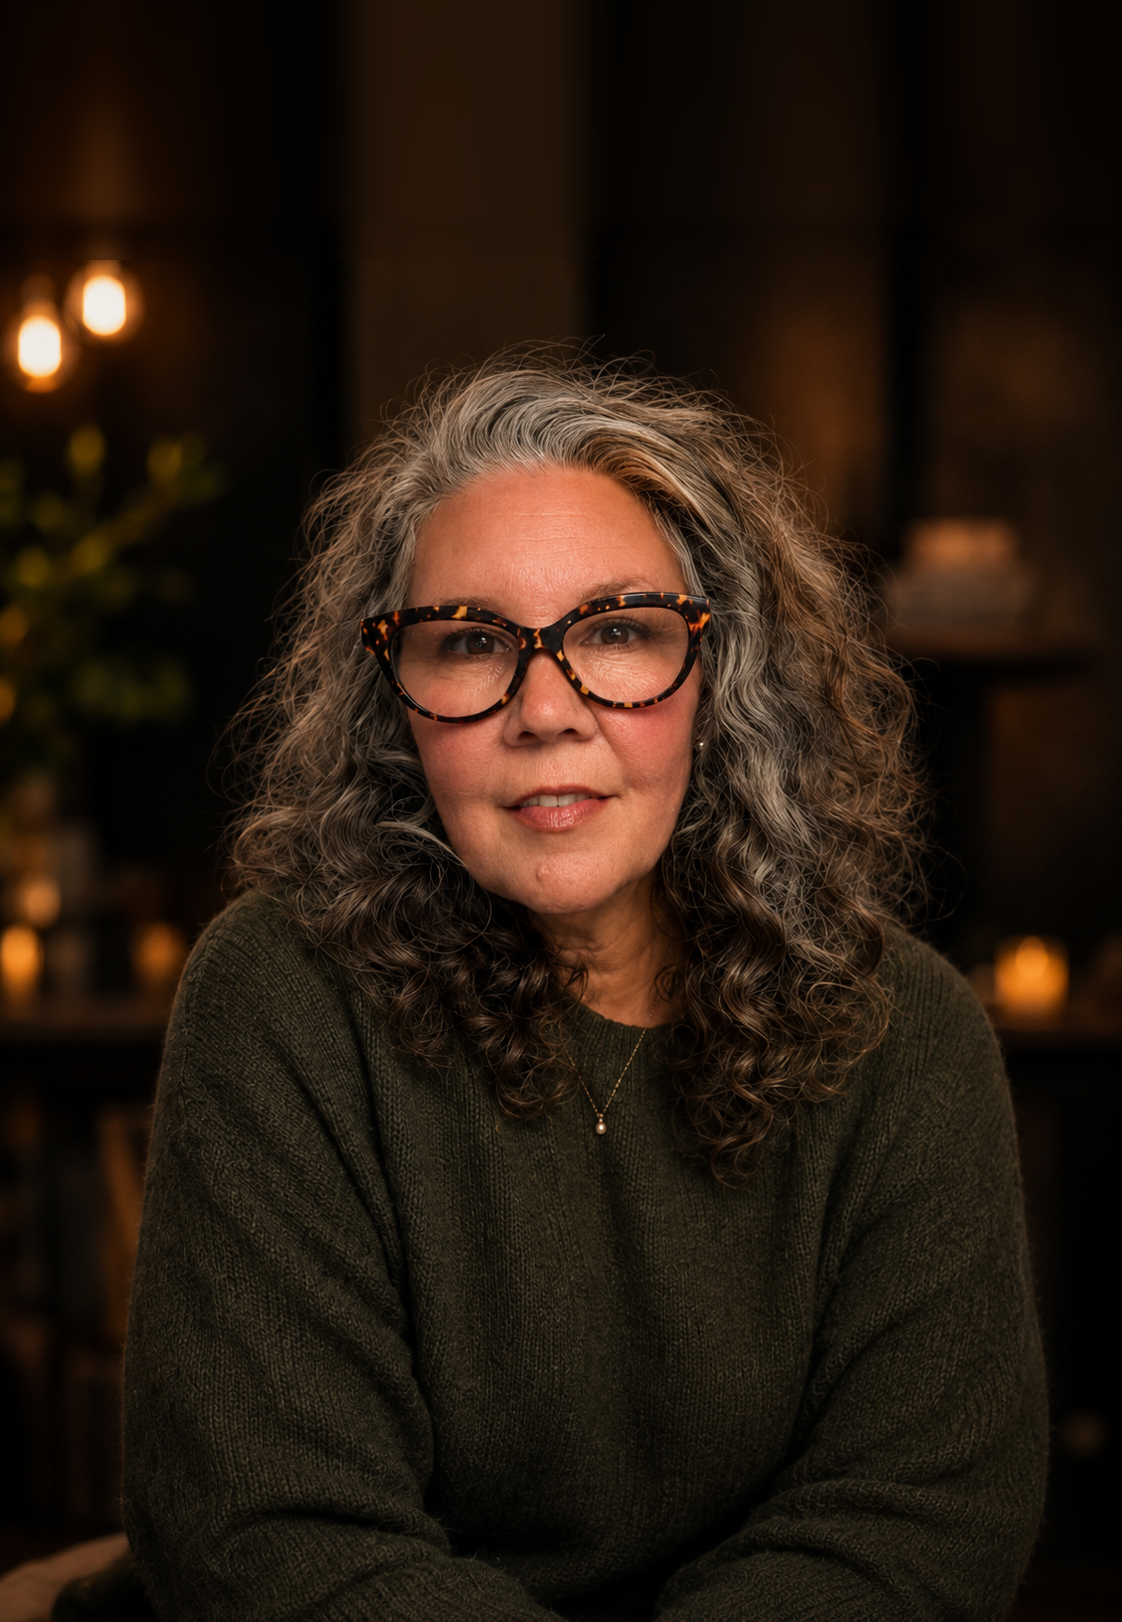
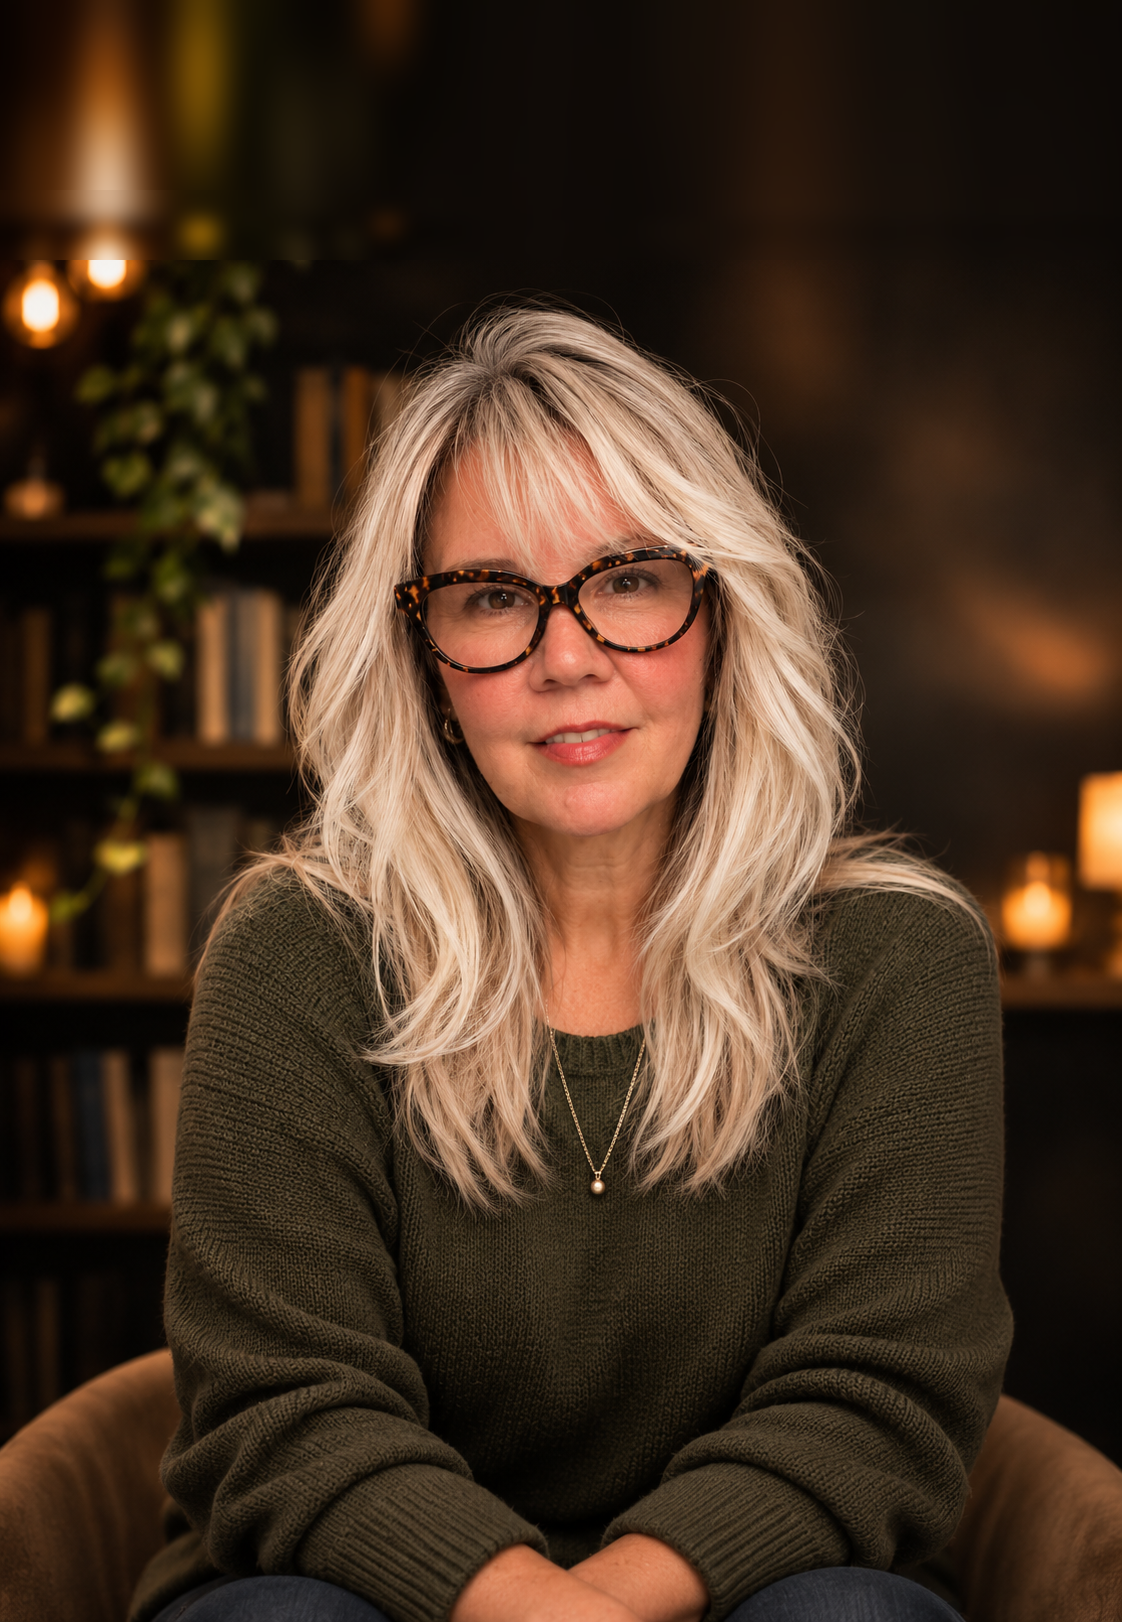
Swap in Leah's new photo on upcoming covers
Claude-Session: https://claude.ai/code/session_01HzMcYdGnCBi9GHQr6GcuSY

diff --git a/toolkit/HANDOFF.md b/toolkit/HANDOFF.md
@@ -59,6 +59,8 @@ cannot fetch raw.githubusercontent.com itself, which is normal; Metricool can.
 
 ## Photos
 
+- Nov 14, 2026: Leah has a NEW official photo (toolkit/photos/leah.png, seated; leah_closeup.png square). Use it on everything going forward. The old one is leah_2026-10_old.png; do not use it.
+
 - toolkit/photos has portraits of Leah and Chris (Oct/Nov 2026). Chris approved use. Chris's photo has an AI-edited background: set instagramData.isAiGenerated true on any Instagram post that uses it.
 - Book covers use both photos side by side (c318art/build_photo_mock.py, mock A): Chris slightly larger, Leah slightly lower. Leah alone for Romans 5–8 and her own writing (bs/build_parch_covers.py: framed photos on parchment; use leah_padded.png so her hair is not cut off). Photo covers go on carousel covers only, not quote cards or Reels.
 
